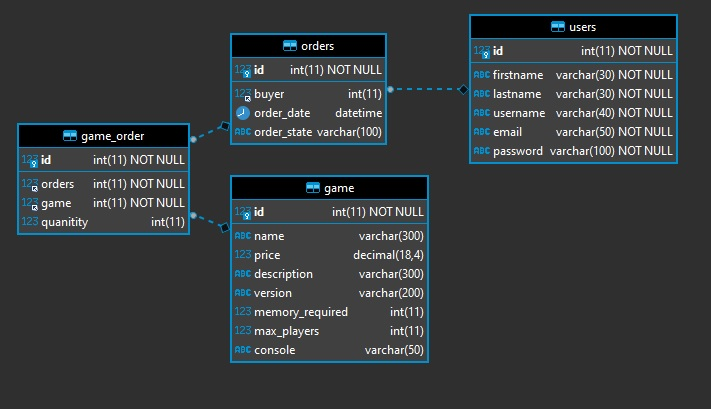
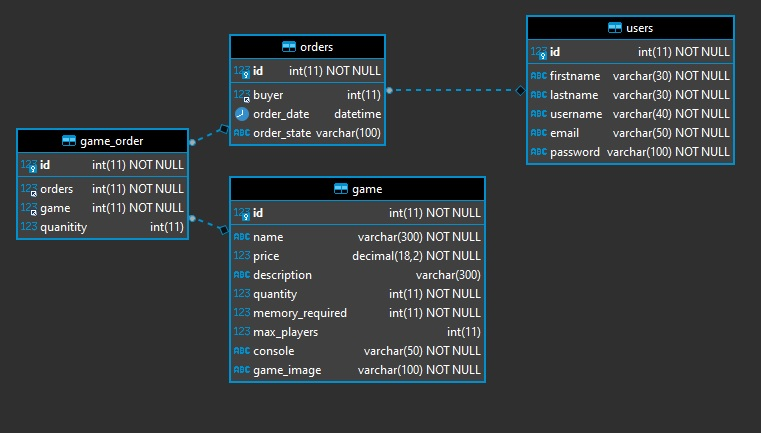
Creating update and clear function to the cart.

Changed region(s): [[0.0, 0.0293, 0.9902, 0.9095]]

diff --git a/core/cart-inc.php b/core/cart-inc.php
@@ -1,41 +1,56 @@
 <?php 
-    if(isset($_POST['add_to_cart'])){
-        if(isset($_SESSION['shopping_cart'])){
-          $game_array_id = array_column($_SESSION['shopping_cart'],'game_id');
-          if(!in_array($_GET['id'],$game_array_id)){
-            $get = count($_SESSION['shopping_cart']);
-            $game_array = array(
-            'game_id' => $_GET['id'],
-            'game_name' => $_POST['hidden_name'],
-            'game_price' => $_POST['hidden_price'],
-            'game_quantity' => $_POST['quantity'],
-            'game_image' => $_POST['hidden_image'],
-            'game_console' => $_POST['hidden_console']
-            );
-            $_SESSION["shopping_cart"][$get] = $game_array;
+
+  if(isset($_POST['add'])){
+      if(isset($_SESSION['shopping_cart'])){
+        $game_array_id = array_column($_SESSION['shopping_cart'],'game_id');
+        if(!in_array($_GET['id'],$game_array_id)){
+          $get = count($_SESSION['shopping_cart']);
+          $game_array = array(
+          'game_id' => $_GET['id'],
+          'game_name' => $_POST['hidden_name'],
+          'game_price' => $_POST['hidden_price'],
+          'game_quantity' => $_POST['quantity'],
+          'game_image' => $_POST['hidden_image'],
+          'game_console' => $_POST['hidden_console']
+          );
+          $_SESSION["shopping_cart"][$get] = $game_array;
+        }
+      }
+      else {
+        $game_array = array(
+          'game_id' => $_GET['id'],
+          'game_name' => $_POST['hidden_name'],
+          'game_price' => $_POST['hidden_price'],
+          'game_quantity' => $_POST['quantity'],
+          'game_image' => $_POST['hidden_image'],
+          'game_console' => $_POST['hidden_console']
+        );
+        $_SESSION['shopping_cart'][0] = $game_array;
+      }
+  }
+
+  if(isset($_GET["action"])){
+    if($_GET["action"]== "delete"){
+        foreach($_SESSION['shopping_cart'] as $games => $value){
+          if($value['game_id'] == $_GET['id']){
+              unset($_SESSION['shopping_cart'][$games]);
           }
         }
-        else {
-          $game_array = array(
-            'game_id' => $_GET['id'],
-            'game_name' => $_POST['hidden_name'],
-            'game_price' => $_POST['hidden_price'],
-            'game_quantity' => $_POST['quantity'],
-            'game_image' => $_POST['hidden_image'],
-            'game_console' => $_POST['hidden_console']
-          );
-          $_SESSION['shopping_cart'][0] = $game_array;
-        }
     }
-
-    if(isset($_GET["action"])){
-      if($_GET["action"]== "delete"){
-          foreach($_SESSION['shopping_cart'] as $games => $value){
-            if($value['game_id'] == $_GET['id']){
-                unset($_SESSION['shopping_cart'][$games]);
-            }
-         }
-     }
+    if(isset($_POST['update'])){
+    if($_GET["action"] == "update"){
+    foreach($_SESSION['shopping_cart'] as $games => $value){
+      if($value['game_id'] == $_GET['id']){
+        $_SESSION['shopping_cart'][$games]['game_quantity']=$_POST['newQuan'];
+        header('location: ../pages/cart.php');
+        }
+      }
+    }
+  }
+  if(isset($_GET["action"])){
+  if($_GET["action"]== "clear"){
+            unset($_SESSION['shopping_cart']);
+    }
+  }
 }
-
 ?>

diff --git a/core/update.php b/core/update.php
@@ -36,10 +36,10 @@
             <td class="text-center"><?php echo $value['game_name'] ?></td>
             <td class="text-center">$<?php echo $value['game_price'] ?></td>
             <td class="text-center"><?php echo $value['game_console']?></td>
-            <form method="POST" action="../core/update.php">
-            <td class="text-center"> <?php echo $value['game_quantity'] ?></td>
+            <form method="POST" action="../pages/cart.php?action=update&id=<?php echo $value['game_id'];?>">
+            <td class="text-center"><input type="number" name="newQuan" value="<?php echo $value['game_quantity'] ?>"></td>
             <td class="text-center">$<?php echo number_format($value['game_quantity'] * $value['game_price'],2)?></td>
-            <td class="text-center"><button type="submit" name="update" class="button">Update</button><br><br><a href="cart.php?action=delete&id=<?php echo $value['game_id'];?>"><span>Remove</span></a></td>
+            <td class="text-center"><button type="submit" name="update" class="button">Set</button><br><br><a href="cart.php?action=delete&id=<?php echo $value['game_id'];?>"><span>Remove</span></a></td>
             </form>
           </tr>
         <?php
@@ -47,7 +47,7 @@
           }
           ?>
           
-          <td colspan="5" class="text-left"><a href="cart.php?action=clear"><span>Clear</span></a></td>
+          <td colspan="5" class="text-left"><a href="../pages/cart.php?action=clear&id=<?php echo $value['game_id'];?>"><span>Clear</span></a></td>
           <td class="text-center">$<?php echo number_format($total,2); ?></td>
           <td class="text-center"><a href="cart.php?action=checkout"><span>Checkout</span></a></td>
           <?php

diff --git a/pages/erdiagram.php b/pages/erdiagram.php
@@ -24,7 +24,7 @@
       <div class="grid-x align-center">
         <div class="cell medium-8">
           <div class="blog-post">
-            <h3><a href="https://github.com/FrankoVekic/cyberX-game-shop/blob/master/db.sql">ER diagram</a></h3>
+            <h3><a href="https://github.com/FrankoVekic/cyberX-game-shop/blob/master/db.sql" target="blank">ER diagram</a></h3>
             <img class="thumbnail" src="../diagram.jpg">
             <code><br>drop database if exists game_shop;<br>
                   create database game_shop;<br>
@@ -35,12 +35,13 @@
                   create table game(<br>
                   id int not null primary key auto_increment,<br>
                   name varchar(300),<br>
-                  price decimal(18,4),<br>
+                  price decimal(18,2),<br>
                   description varchar(300),<br>
-                  version varchar(200),<br>
-                  memory_required int,<br>
+                  quantity int(11) NOT NULL,<br>
+                  memory_required int not null,<br>
                   max_players int,<br>
-                  console varchar(50)<br>
+                  console varchar(50),<br>
+                  game_image varchar(100) not null<br>
                   );<br>
                  
                   <hr>

diff --git a/pages/games.php b/pages/games.php
@@ -32,7 +32,7 @@
               <input type="hidden" name="hidden_price" value="<?=$product['price']?>">
               <input type="hidden" name="hidden_console" value="<?=$product['console']?>">
               <input type="hidden" name="hidden_image" value="<?=$product['game_image']?>">
-              <button type="submit" name="add_to_cart" class="button expanded"><i class="fi-shopping-cart"></i>Add to Cart</button>
+              <button type="submit" name="add" class="button expanded"><i class="fi-shopping-cart"></i>Add to Cart</button>
             </form>
         <?php }
             ?>

diff --git a/pages/aboutus.php b/pages/aboutus.php
@@ -14,7 +14,7 @@
 
 <div class="callout large primary" style="background-image: url('../includes/images/backgrounds/particles1.jpg');">
 <div class="text-center">
-<a href="https://github.com/FrankoVekic/cyberX-game-shop" class="alert button large">GITHUB CODE</a>
+<a href="https://github.com/FrankoVekic/cyberX-game-shop"  class="alert button large" target="_blank">GITHUB CODE</a>
 </div>
     </div>
     

diff --git a/includes/branched/config.php b/includes/branched/config.php
@@ -6,8 +6,3 @@ session_start();
 
 $appName = 'CyberX Games';
 $appLink = 'http://mojaaplikacija.xyz/';
-
-$users = [
-        'oper@edunova.hr' => 'o',
-        'franko@edunova.hr' => 'f'
-];
